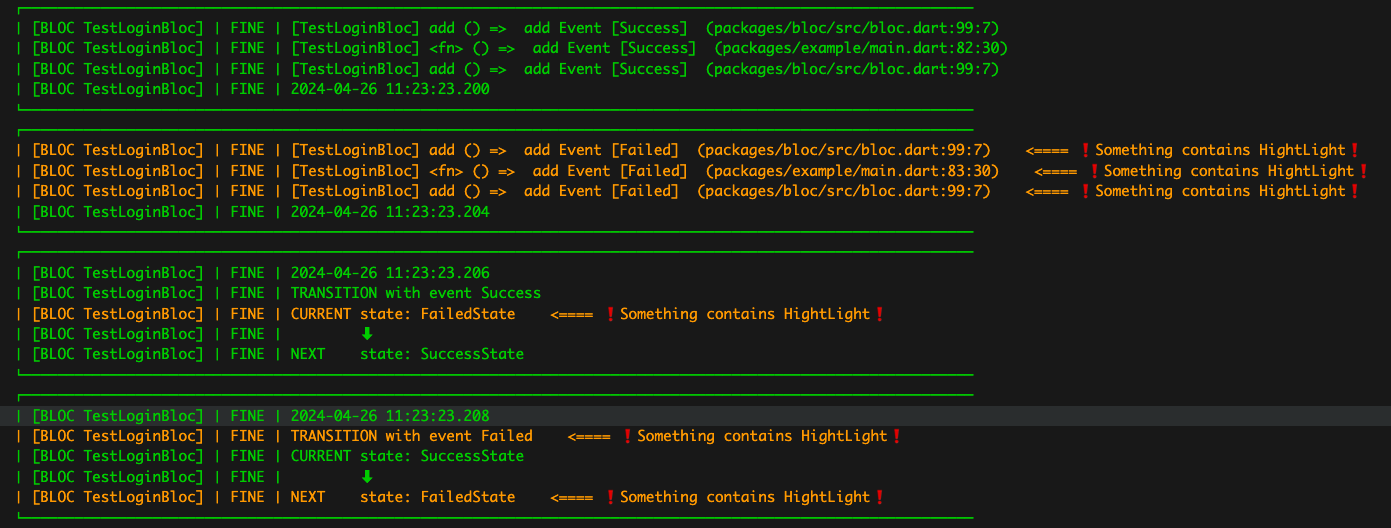
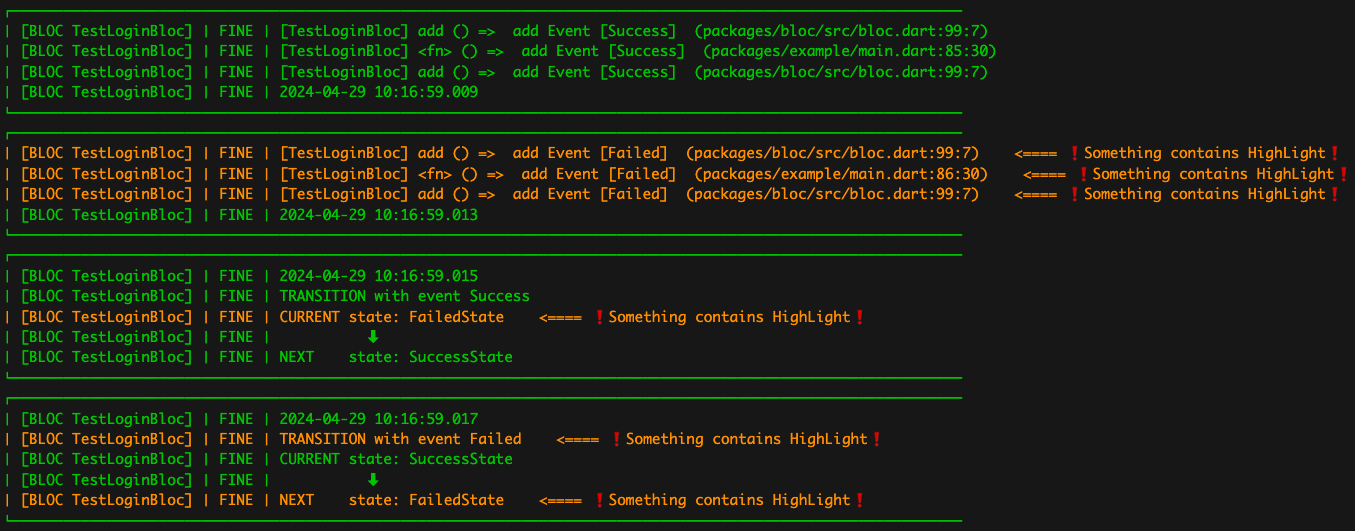
## 0.0.15 - Fix 'BlocHightLightFilter' to 'BlocHighLightFilter'

Changed region(s): [[0.0, 0.0, 0.9919, 0.9697], [0.403, 0.9091, 0.6509, 0.9697], [0.403, 0.5758, 0.6509, 0.6061]]

diff --git a/lib/src/color_observer_logger.dart b/lib/src/color_observer_logger.dart
@@ -18,7 +18,7 @@ class ColorObserverLogger {
   static bool _logStack = true;
   static bool get stackTracking => _logStack;
   static Filter filter = Filter.allPass();
-  static BlocHightLightFilter? blocHightLightFilter;
+  static BlocHighLightFilter? blocHighLightFilter;
   static bool kIsWeb = false;
   static set stackTracking(bool value) {
     // if (kIsWeb && value == true) {
@@ -88,19 +88,18 @@ class ColorObserverLogger {
         LoggerHelperFormatter.formatWithPrefix(eventLog, eventLog.message);
     msg = LoggerHelperFormatter.filterIfFile(msg);
     msg = filterMsgCountByLevel(eventLog.level, msg);
-    if (ColorObserverLogger.blocHightLightFilter?.filter(eventLog.message) ??
+    if (ColorObserverLogger.blocHighLightFilter?.filter(eventLog.message) ??
         false) {
       for (var i = 0; i < msg.length; i++) {
-        final hightLightColor =
-            blocHightLightFilter?.color ?? AnsiColor.fg(214);
+        final highLightColor = blocHighLightFilter?.color ?? AnsiColor.fg(214);
 
-        final hightLight =
-            ColorObserverLogger.blocHightLightFilter?.filter(msg[i]) ?? false;
-        if (hightLight) {
-          final showWarning = blocHightLightFilter?.colorOnly ?? true;
+        final highLight =
+            ColorObserverLogger.blocHighLightFilter?.filter(msg[i]) ?? false;
+        if (highLight) {
+          final showWarning = blocHighLightFilter?.colorOnly ?? true;
           final warning =
-              showWarning ? "" : "    <==== ❗Something contains HightLight❗  ";
-          msg[i] = hightLightColor("${msg[i]}$warning");
+              showWarning ? "" : "    <==== ❗Something contains HighLight❗  ";
+          msg[i] = highLightColor("${msg[i]}$warning");
         }
       }
     }

diff --git a/lib/src/bloc_hight_light_filter.dart b/lib/src/bloc_hight_light_filter.dart
@@ -1,16 +1,16 @@
 import 'package:color_observer_logger/color_observer_logger.dart';
 
-class BlocHightLightFilter {
+class BlocHighLightFilter {
   final bool colorOnly;
   final AnsiColor? color;
   final Function(String message)? onFilter;
-  BlocHightLightFilter({this.onFilter, this.colorOnly = false, this.color});
+  BlocHighLightFilter({this.onFilter, this.colorOnly = false, this.color});
   bool filter(String message) {
     return onFilter?.call(message) ?? false;
   }
 }
 
-class DefaultHighLightFilter extends BlocHightLightFilter {
+class DefaultHighLightFilter extends BlocHighLightFilter {
   DefaultHighLightFilter({
     bool colorOnly = true,
     AnsiColor? color,

diff --git a/lib/src/bloc_observer.dart b/lib/src/bloc_observer.dart
@@ -184,7 +184,7 @@ class ColorBlocObserver extends BlocObserver
     AnsiColor? blocColor,
     int? methodCount = 3,
     Filter? filter,
-    BlocHightLightFilter? blocHightLightFilter,
+    BlocHighLightFilter? blocHighLightFilter,
   }) {
     ColorObserverLogger.stackTracking = stackTracking;
     ColorObserverLogger.updateLevelColors(
@@ -198,7 +198,7 @@ class ColorBlocObserver extends BlocObserver
       },
     );
     ColorObserverLogger.filter = filter ?? Filter.allPass();
-    ColorObserverLogger.blocHightLightFilter = blocHightLightFilter;
+    ColorObserverLogger.blocHighLightFilter = blocHighLightFilter;
     ColorObserverLogger.kIsWeb = kIsWeb;
   }
 

diff --git a/example/lib/main.dart b/example/lib/main.dart
@@ -28,7 +28,7 @@ class MyApp extends StatelessWidget {
       ),
       blocColor: AnsiColor.fg(40),
       methodCount: 3,
-      blocHightLightFilter: DefaultHighLightFilter(
+      blocHighLightFilter: DefaultHighLightFilter(
         color: AnsiColor.fg(214),
         colorOnly: false,
       ),

diff --git a/README.md b/README.md
@@ -34,7 +34,7 @@ More examples you can get [here](https://github.com/jack-fan1991/flutter_color_o
       ),
       blocColor: AnsiColor.fg(40),
       methodCount: 3,
-      blocHightLightFilter: DefaultHighLightFilter(
+      blocHighLightFilter: DefaultHighLightFilter(
         color: AnsiColor.fg(214),
         colorOnly: false,
       ),
@@ -61,7 +61,7 @@ More examples you can get [here](https://github.com/jack-fan1991/flutter_color_o
 *  Highlight message with color when filter return true
 
 ```dart
-class DefaultHighLightFilter extends BlocHightLightFilter {
+class DefaultHighLightFilter extends BlocHighLightFilter {
   @override
   bool filter(String message) {
     return message.toLowerCase().contains('error') ||

diff --git a/CHANGELOG.md b/CHANGELOG.md
@@ -1,3 +1,6 @@
+## 0.0.15
+- Fix 'BlocHightLightFilter' to 'BlocHighLightFilter'
+
 ## 0.0.14
 - output  fmt
 
@@ -12,7 +15,7 @@
 - Add support web trace
 
 ## 0.0.9
-- Add BlocHightLightFilter design hight light message when something wrong 
+- Add BlocHighLightFilter design hight light message when something wrong 
 
 - Update logger print sequence
 ## 0.0.8
